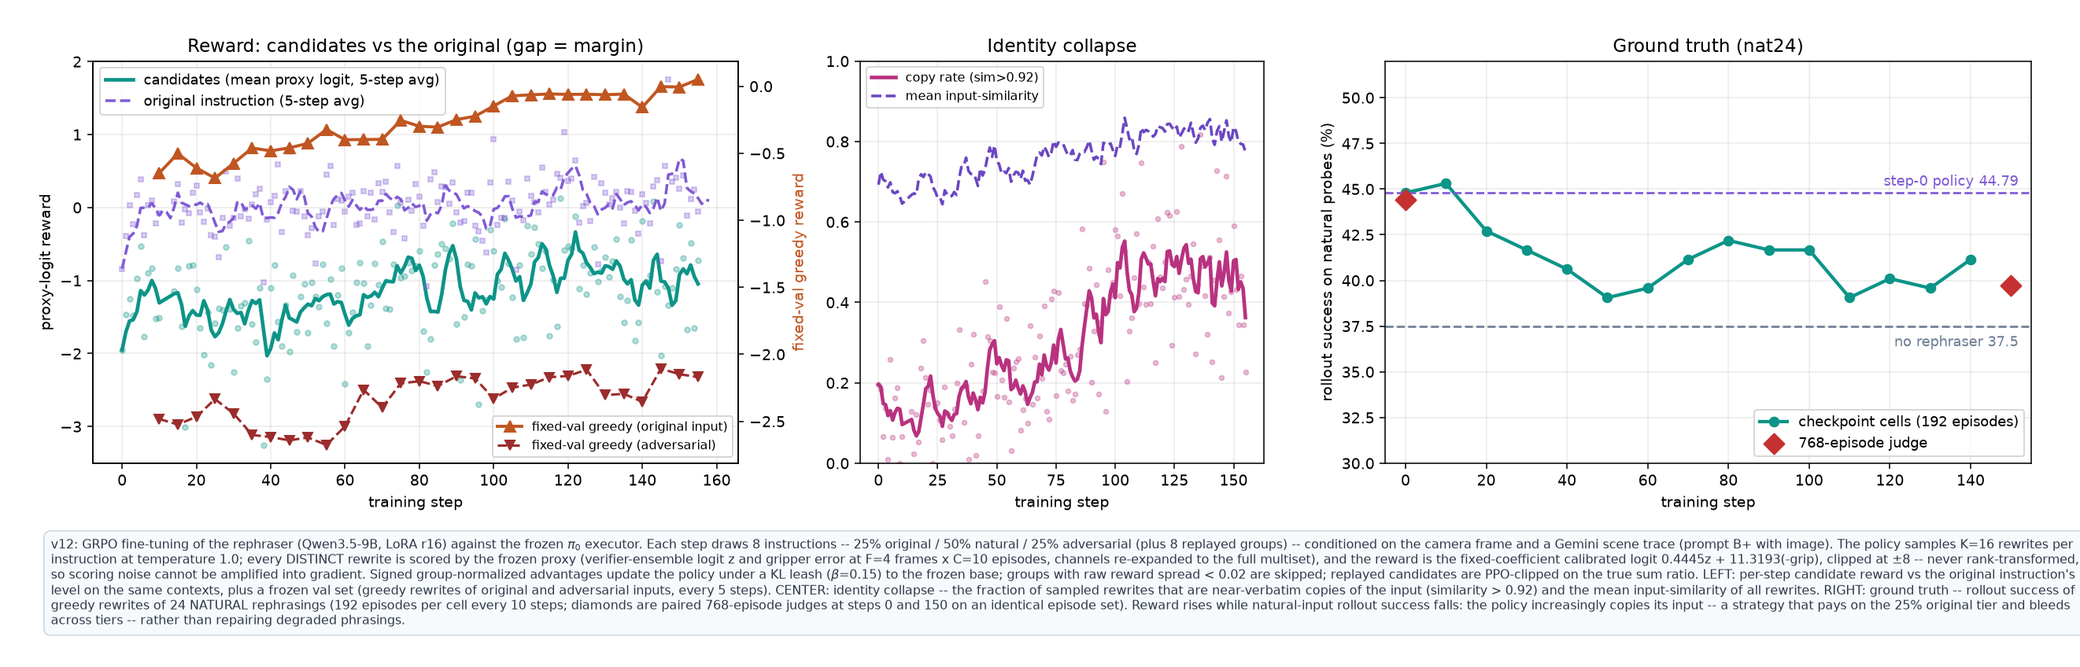
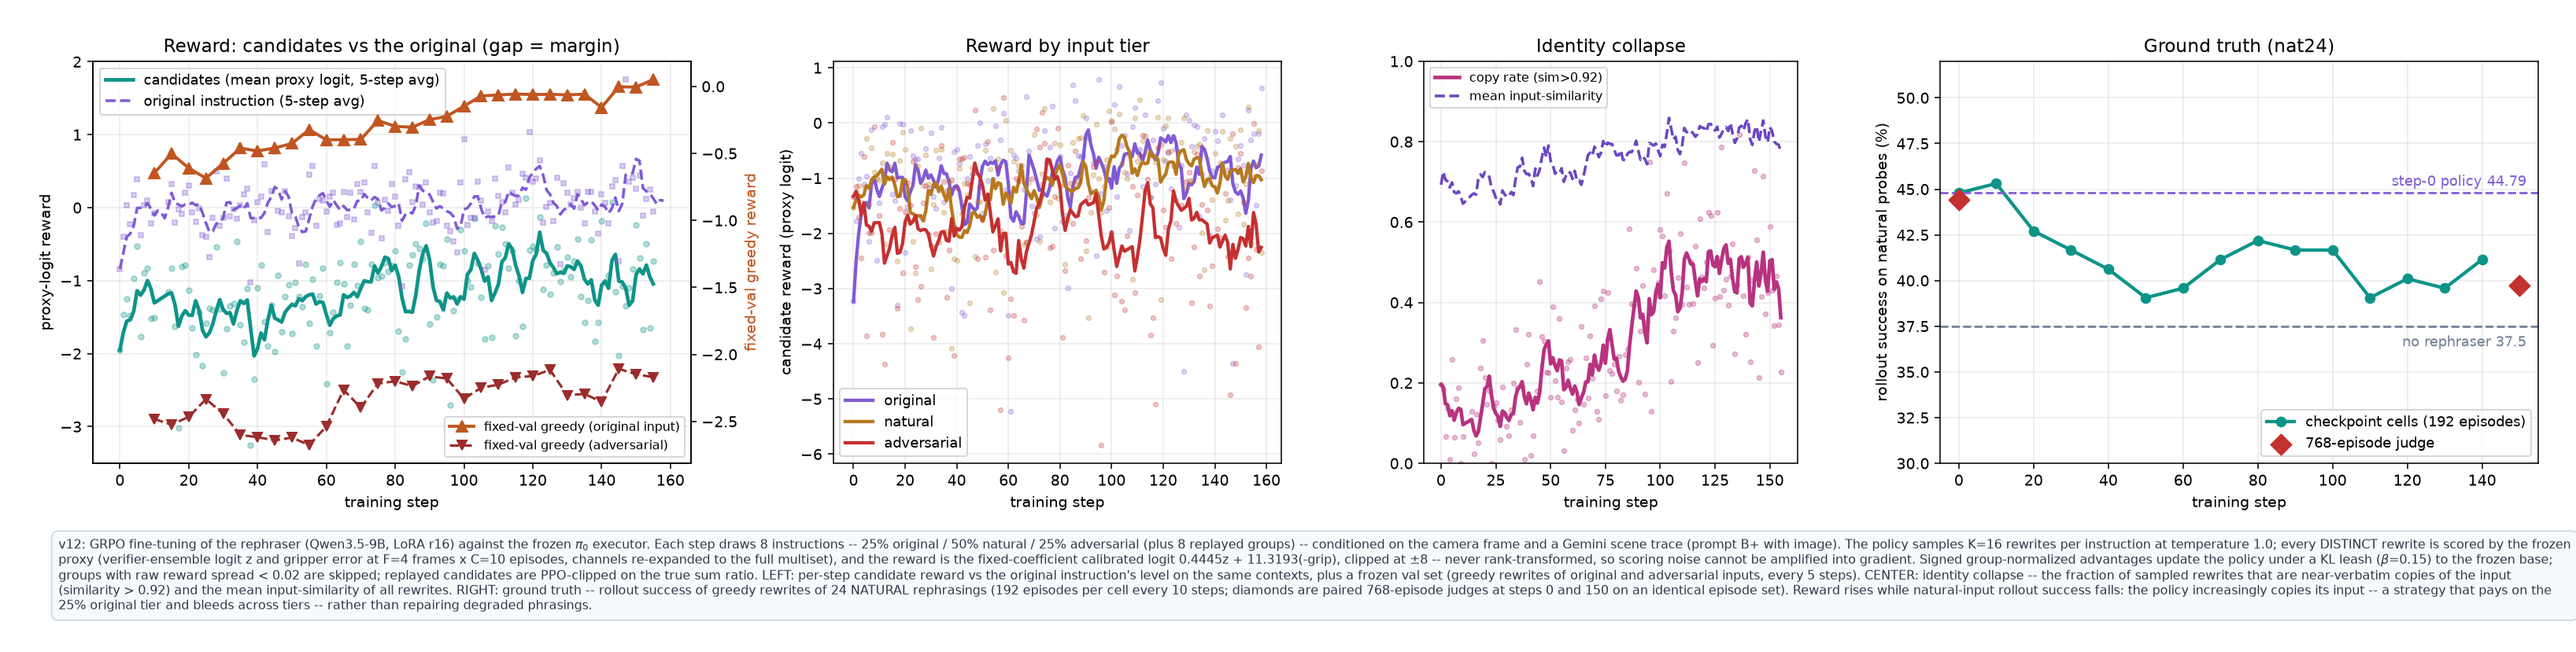
v12 chart: fourth panel -- candidate reward by input tier (blended logit reconstructed from per-tier channel telemetry)

diff --git a/scripts/make_v12_progress.py b/scripts/make_v12_progress.py
@@ -44,8 +44,38 @@ sim = pd.Series([SequenceMatcher(None, str(a).lower(), str(b).lower()).ratio()
 cand_df = cand_df.assign(sim=sim, copy=sim > 0.92)
 cp = cand_df.groupby("step").agg(copy_rate=("copy", "mean"), mean_sim=("sim", "mean"))
 
-fig, (a1, ac, a2) = plt.subplots(1, 3, figsize=(18.4, 4.6),
-                                 gridspec_kw={"width_ratios": [1.2, 0.75, 1.2]})
+fig, (a1, at, ac, a2) = plt.subplots(1, 4, figsize=(23.0, 4.6),
+                                     gridspec_kw={"width_ratios": [1.2, 0.9, 0.75, 1.2]})
+
+# --- reward by input tier: blended proxy logit reconstructed from the per-tier
+# channel series (z = -cand_loss_by_tier, grip = grip_by_tier)
+TIERS = [("nominal", "original", "#805ad5"), ("benign", "natural", "#b7791f"),
+         ("ert", "adversarial", "#c53030")]
+for tier, label, color in TIERS:
+    xs, ys = [], []
+    for r in steps:
+        cl = (r.get("cand_loss_by_tier") or {}).get(tier)
+        gr = (r.get("grip_by_tier") or {}).get(tier)
+        if cl is None or gr is None:
+            continue
+        try:
+            if cl != cl or gr != gr:   # NaN
+                continue
+        except TypeError:
+            continue
+        xs.append(r["step"])
+        ys.append(0.4445 * (-cl) + 11.3193 * (-gr))
+    if not xs:
+        continue
+    ser = pd.Series(ys, index=xs).sort_index()
+    at.plot(ser.index, ser.values, "o", color=color, ms=3, alpha=0.25)
+    at.plot(ser.index, ser.rolling(7, min_periods=1).mean().values, "-",
+            color=color, lw=2.2, label=label)
+at.set_xlabel("training step")
+at.set_ylabel("candidate reward (proxy logit)")
+at.set_title("Reward by input tier", fontsize=12)
+at.legend(fontsize=9, loc="best")
+at.grid(alpha=0.25)
 
 ac.plot(cp.index, cp.copy_rate.values, "o", color="#b83280", ms=3, alpha=0.3)
 ac.plot(cp.index, cp.copy_rate.rolling(5, min_periods=1).mean().values, "-",
